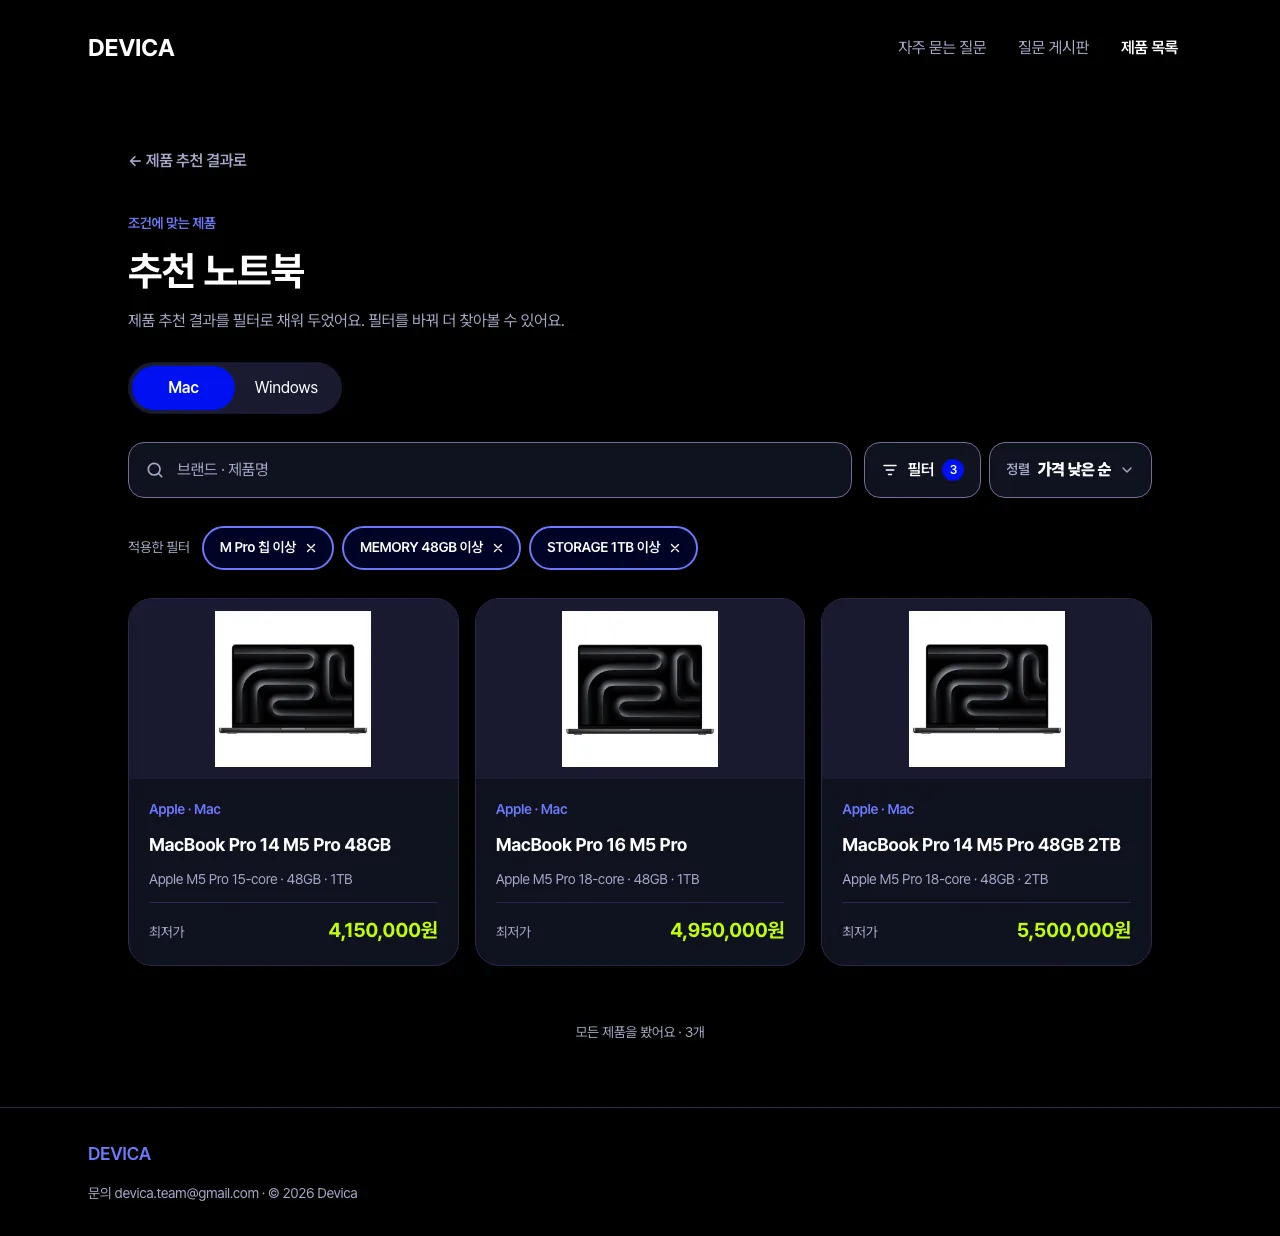
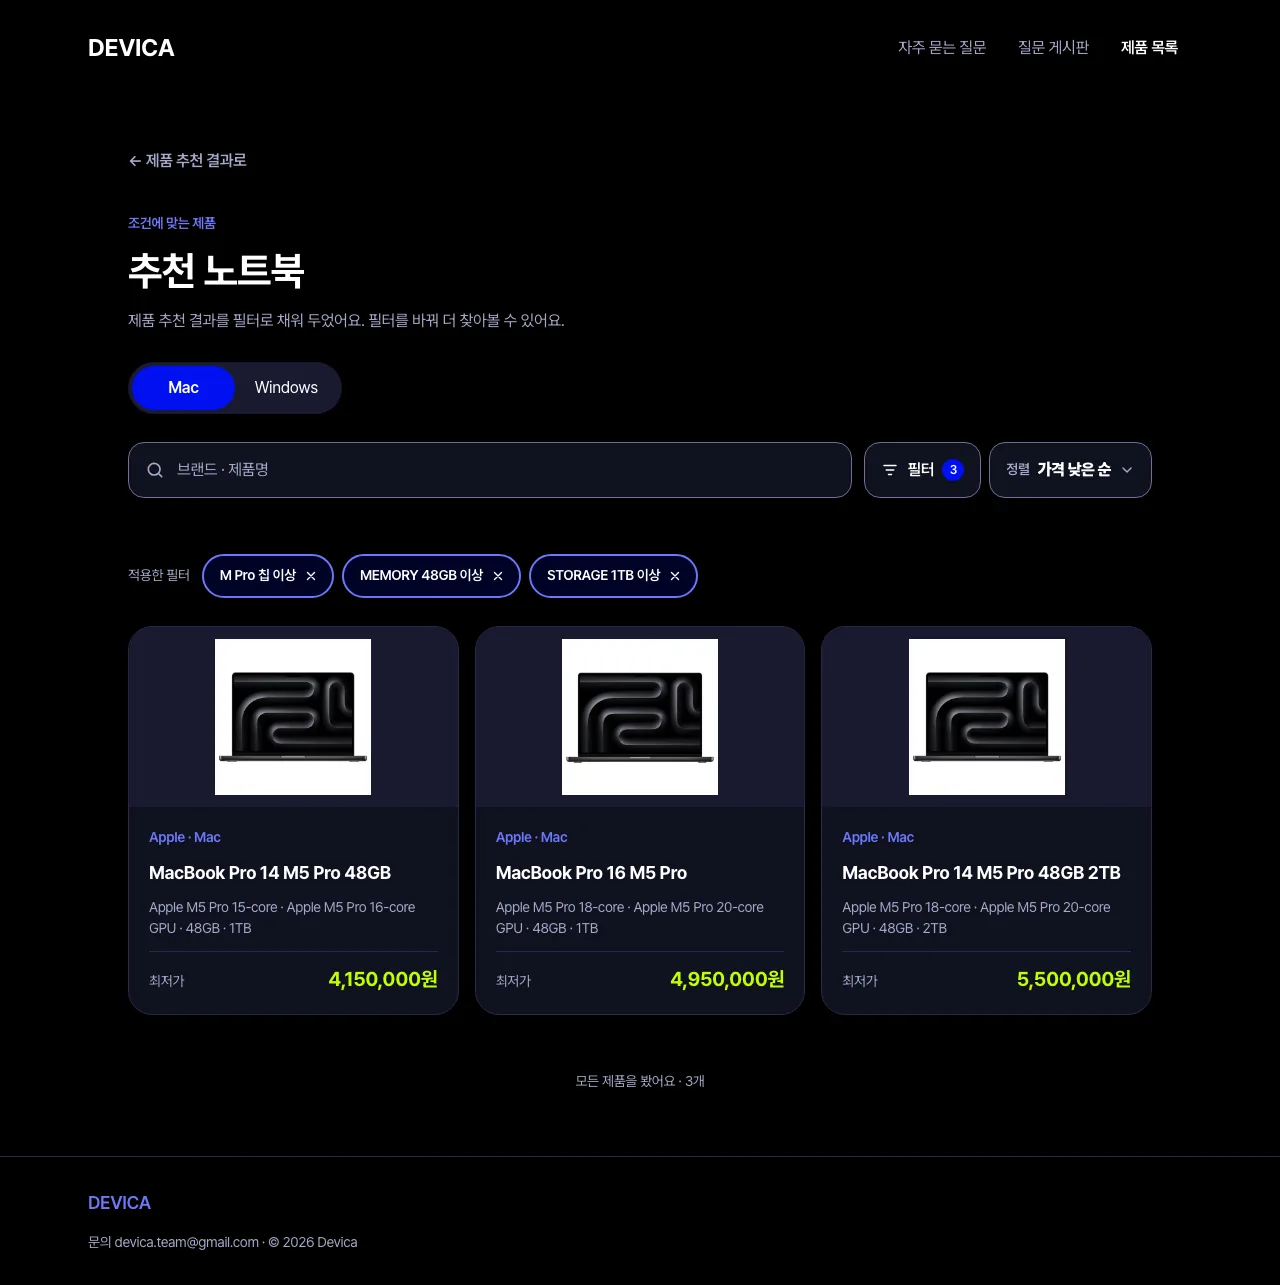
fix: 글·댓글 등록 뒤 모바일 질문 목록 갱신
- 질문이나 댓글을 등록하면 받아 둔 모바일 질문 목록을 버려, 뒤로 가기로 돌아왔을 때 새 글과 댓글 수가 보이도록 변경
- develop 병합으로 카드 요약에 GPU 가 추가되어 랜딩의 추천 노트북 목록 스크린숏 재촬영

Frontend-Review: hash=6e59d00d6e9962c0487d7c182439d81593d2b0db base=origin/develop unresolved=0

diff --git a/frontend/src/BoardListView.tsx b/frontend/src/BoardListView.tsx
@@ -2,7 +2,7 @@ import { type ReactNode, useEffect, useRef, useState } from 'react';
 import { Link } from 'wouter';
 import { track } from './analytics';
 import { BoardByline } from './BoardShared';
-import { type BoardPostSummary, type BoardScope, fetchBoardPosts } from './board';
+import { BOARD_POSTS_CACHE, type BoardPostSummary, type BoardScope, fetchBoardPosts } from './board';
 import { usePaged } from './fetched';
 import { boardUrl, currentNavState, PATHS, query } from './routes';
 import type { Served } from './selection';
@@ -124,7 +124,7 @@ function ScrollingPosts({ scope, toolbar }: { scope: ListScope; toolbar: ReactNo
   useEffect(() => {
     window.history.replaceState({ ...currentNavState(), boardVisit: visit }, '');
   }, [visit]);
-  const posts = usePaged<BoardPostSummary>(`board-posts:${category.code}:${purpose.code}:${visit}`, (page) =>
+  const posts = usePaged<BoardPostSummary>(`${BOARD_POSTS_CACHE}${category.code}:${purpose.code}:${visit}`, (page) =>
     fetchBoardPosts(category.code, purpose.code, page, UNABORTED),
   );
   const { data, hasNext, loading, failed, more } = posts;

diff --git a/frontend/src/BoardWriteView.tsx b/frontend/src/BoardWriteView.tsx
@@ -2,7 +2,8 @@ import { type FormEvent, useEffect, useRef, useState } from 'react';
 import { Link } from 'wouter';
 import { track } from './analytics';
 import { BoardScopeInfo } from './BoardShared';
-import { BoardRequestError, type BoardScope, createBoardPost } from './board';
+import { BOARD_POSTS_CACHE, BoardRequestError, type BoardScope, createBoardPost } from './board';
+import { forgetStartingWith } from './fetched';
 import { boardUrl, replace } from './routes';
 import type { Served } from './selection';
 
@@ -40,6 +41,7 @@ export function BoardWriteView({ scope }: { scope: BoardScope & { purpose: Serve
       );
       // 저장은 됐으므로 화면을 떠났더라도 센다.
       track('question_submitted', {});
+      forgetStartingWith(BOARD_POSTS_CACHE);
       if (!controller.signal.aborted) {
         // 뒤로 가기로 돌아왔을 때 이미 등록한 글을 다시 제출하지 않도록 작성 화면을 상세로 대체한다.
         replace(`/board/posts/${post.id}`);

diff --git a/frontend/src/BoardComments.tsx b/frontend/src/BoardComments.tsx
@@ -1,6 +1,7 @@
 import { type FormEvent, useEffect, useRef, useState } from 'react';
 import { BoardByline } from './BoardShared';
-import { BoardRequestError, createBoardComment, fetchBoardComments } from './board';
+import { BOARD_POSTS_CACHE, BoardRequestError, createBoardComment, fetchBoardComments } from './board';
+import { forgetStartingWith } from './fetched';
 import { useBoardRequest } from './useBoardRequest';
 
 const COMMENT_MAX_LENGTH = 1000;
@@ -69,6 +70,7 @@ function BoardCommentForm({ postId, onCreated }: { postId: number; onCreated: ()
     setState({ status: 'submitting' });
     try {
       await createBoardComment(postId, content, controller.signal);
+      forgetStartingWith(BOARD_POSTS_CACHE);
       if (!controller.signal.aborted) {
         setContent('');
         setState({ status: 'success' });

diff --git a/frontend/src/board.ts b/frontend/src/board.ts
@@ -2,6 +2,7 @@ import type { Served } from './selection';
 
 const BASE_URL = import.meta.env.VITE_API_BASE_URL ?? '';
 export const BOARD_PAGE_SIZE = 20;
+export const BOARD_POSTS_CACHE = 'board-posts:';
 
 export type BoardPostSummary = { id: number; title: string; createdAt: string; commentCount: number };
 export type BoardPostDetail = Omit<BoardPostSummary, 'commentCount'> & {

diff --git a/frontend/src/fetched.ts b/frontend/src/fetched.ts
@@ -9,6 +9,14 @@ export function forget(key: string) {
   received.delete(key);
 }
 
+export function forgetStartingWith(prefix: string) {
+  for (const key of [...received.keys()]) {
+    if (key.startsWith(prefix)) {
+      received.delete(key);
+    }
+  }
+}
+
 type Attempt<T> = {
   key: string;
   data: T | null;
